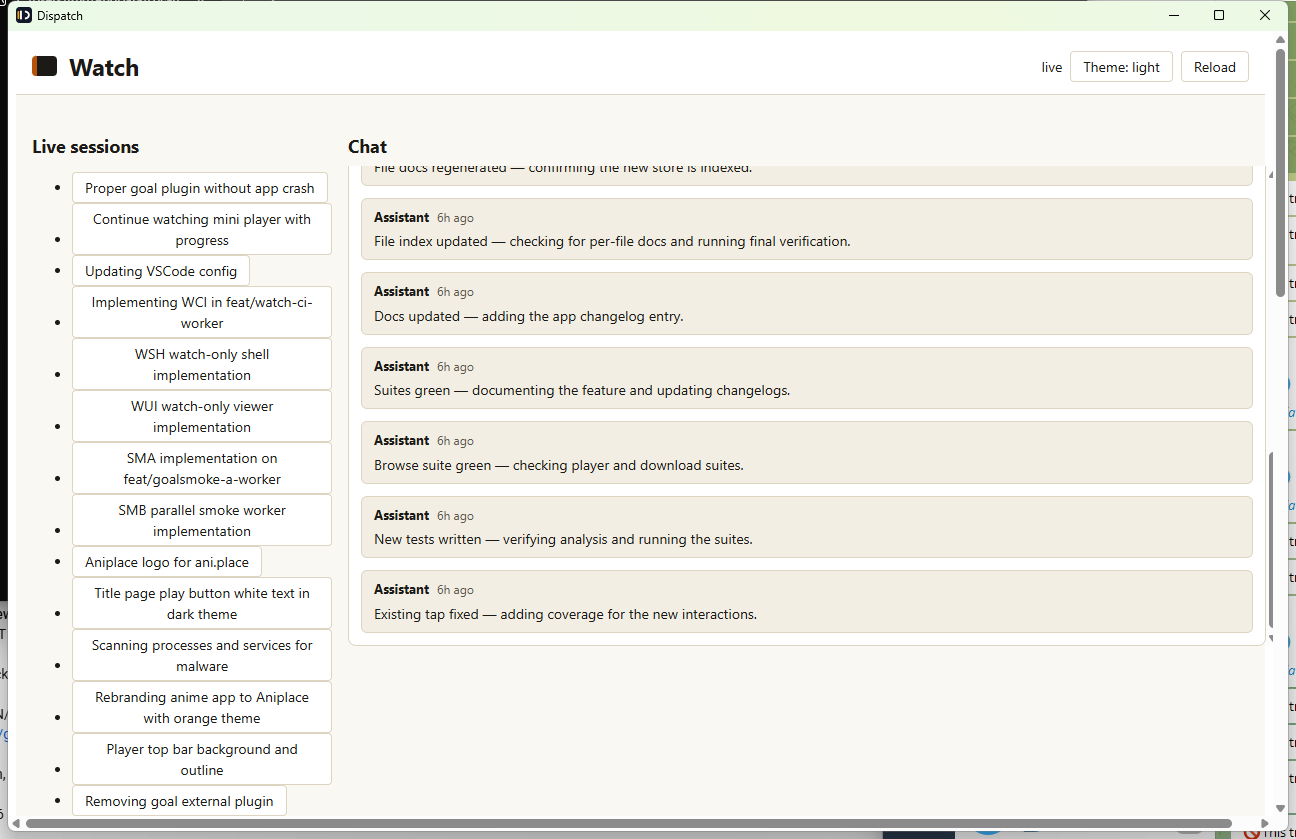
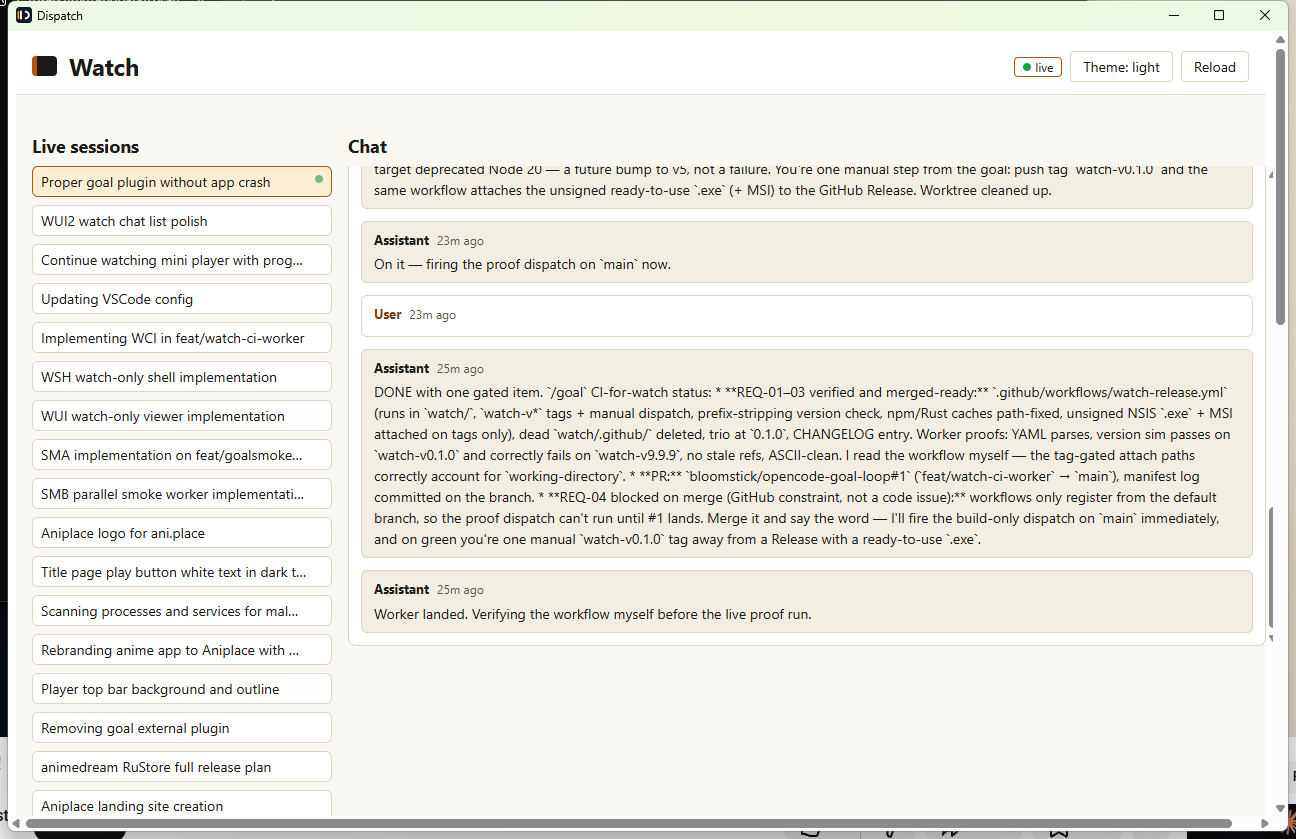
showcase: polished UI + screenshot refresh + watch 0.1.1

diff --git a/watch/CHANGELOG.md b/watch/CHANGELOG.md
@@ -1,5 +1,11 @@
 # Changelog
 
+## [0.1.1]
+
+* Chat list polish: session cards (no bullets, ellipsis titles with hover,
+  selected accent + watching marker), live badge dot, pulsing running tool
+  dot; dead CSS for removed components pruned. No behavior changes.
+
 ## [Unreleased]
 
 * Watch-only shell cut: sidecar keeps only `opencode_service_endpoint` (git/gh/store/screenshot commands removed; live chat runs over @opencode/client SSE), `scripts/` deleted with the `probe`/`live-proof`/`vision-review`/`vision-diff` npm scripts and the `tsx` devDep, `docs/` replaced by `docs/WATCH.md`, README slimmed to watcher-only, `index.html` title to Watch, `TO-DO.md` and `opencode.json` deleted. Attended-only: closing the window stops everything, no background state.

diff --git a/CHANGELOG.md b/CHANGELOG.md
@@ -2,6 +2,9 @@
 
 ## [Unreleased]
 
+- `watch/` 0.1.1: chat list polish (session cards, live badge, WIP
+  indicators, dead CSS pruned) + refreshed `docs/watch.png` showcase shot.
+
 - `watch/`: promote release workflow to repo root as
   `.github/workflows/watch-release.yml` (scoped to `watch/`, triggers on
   `watch-v*` tags + `workflow_dispatch`); delete the watch-subdir `.github`
